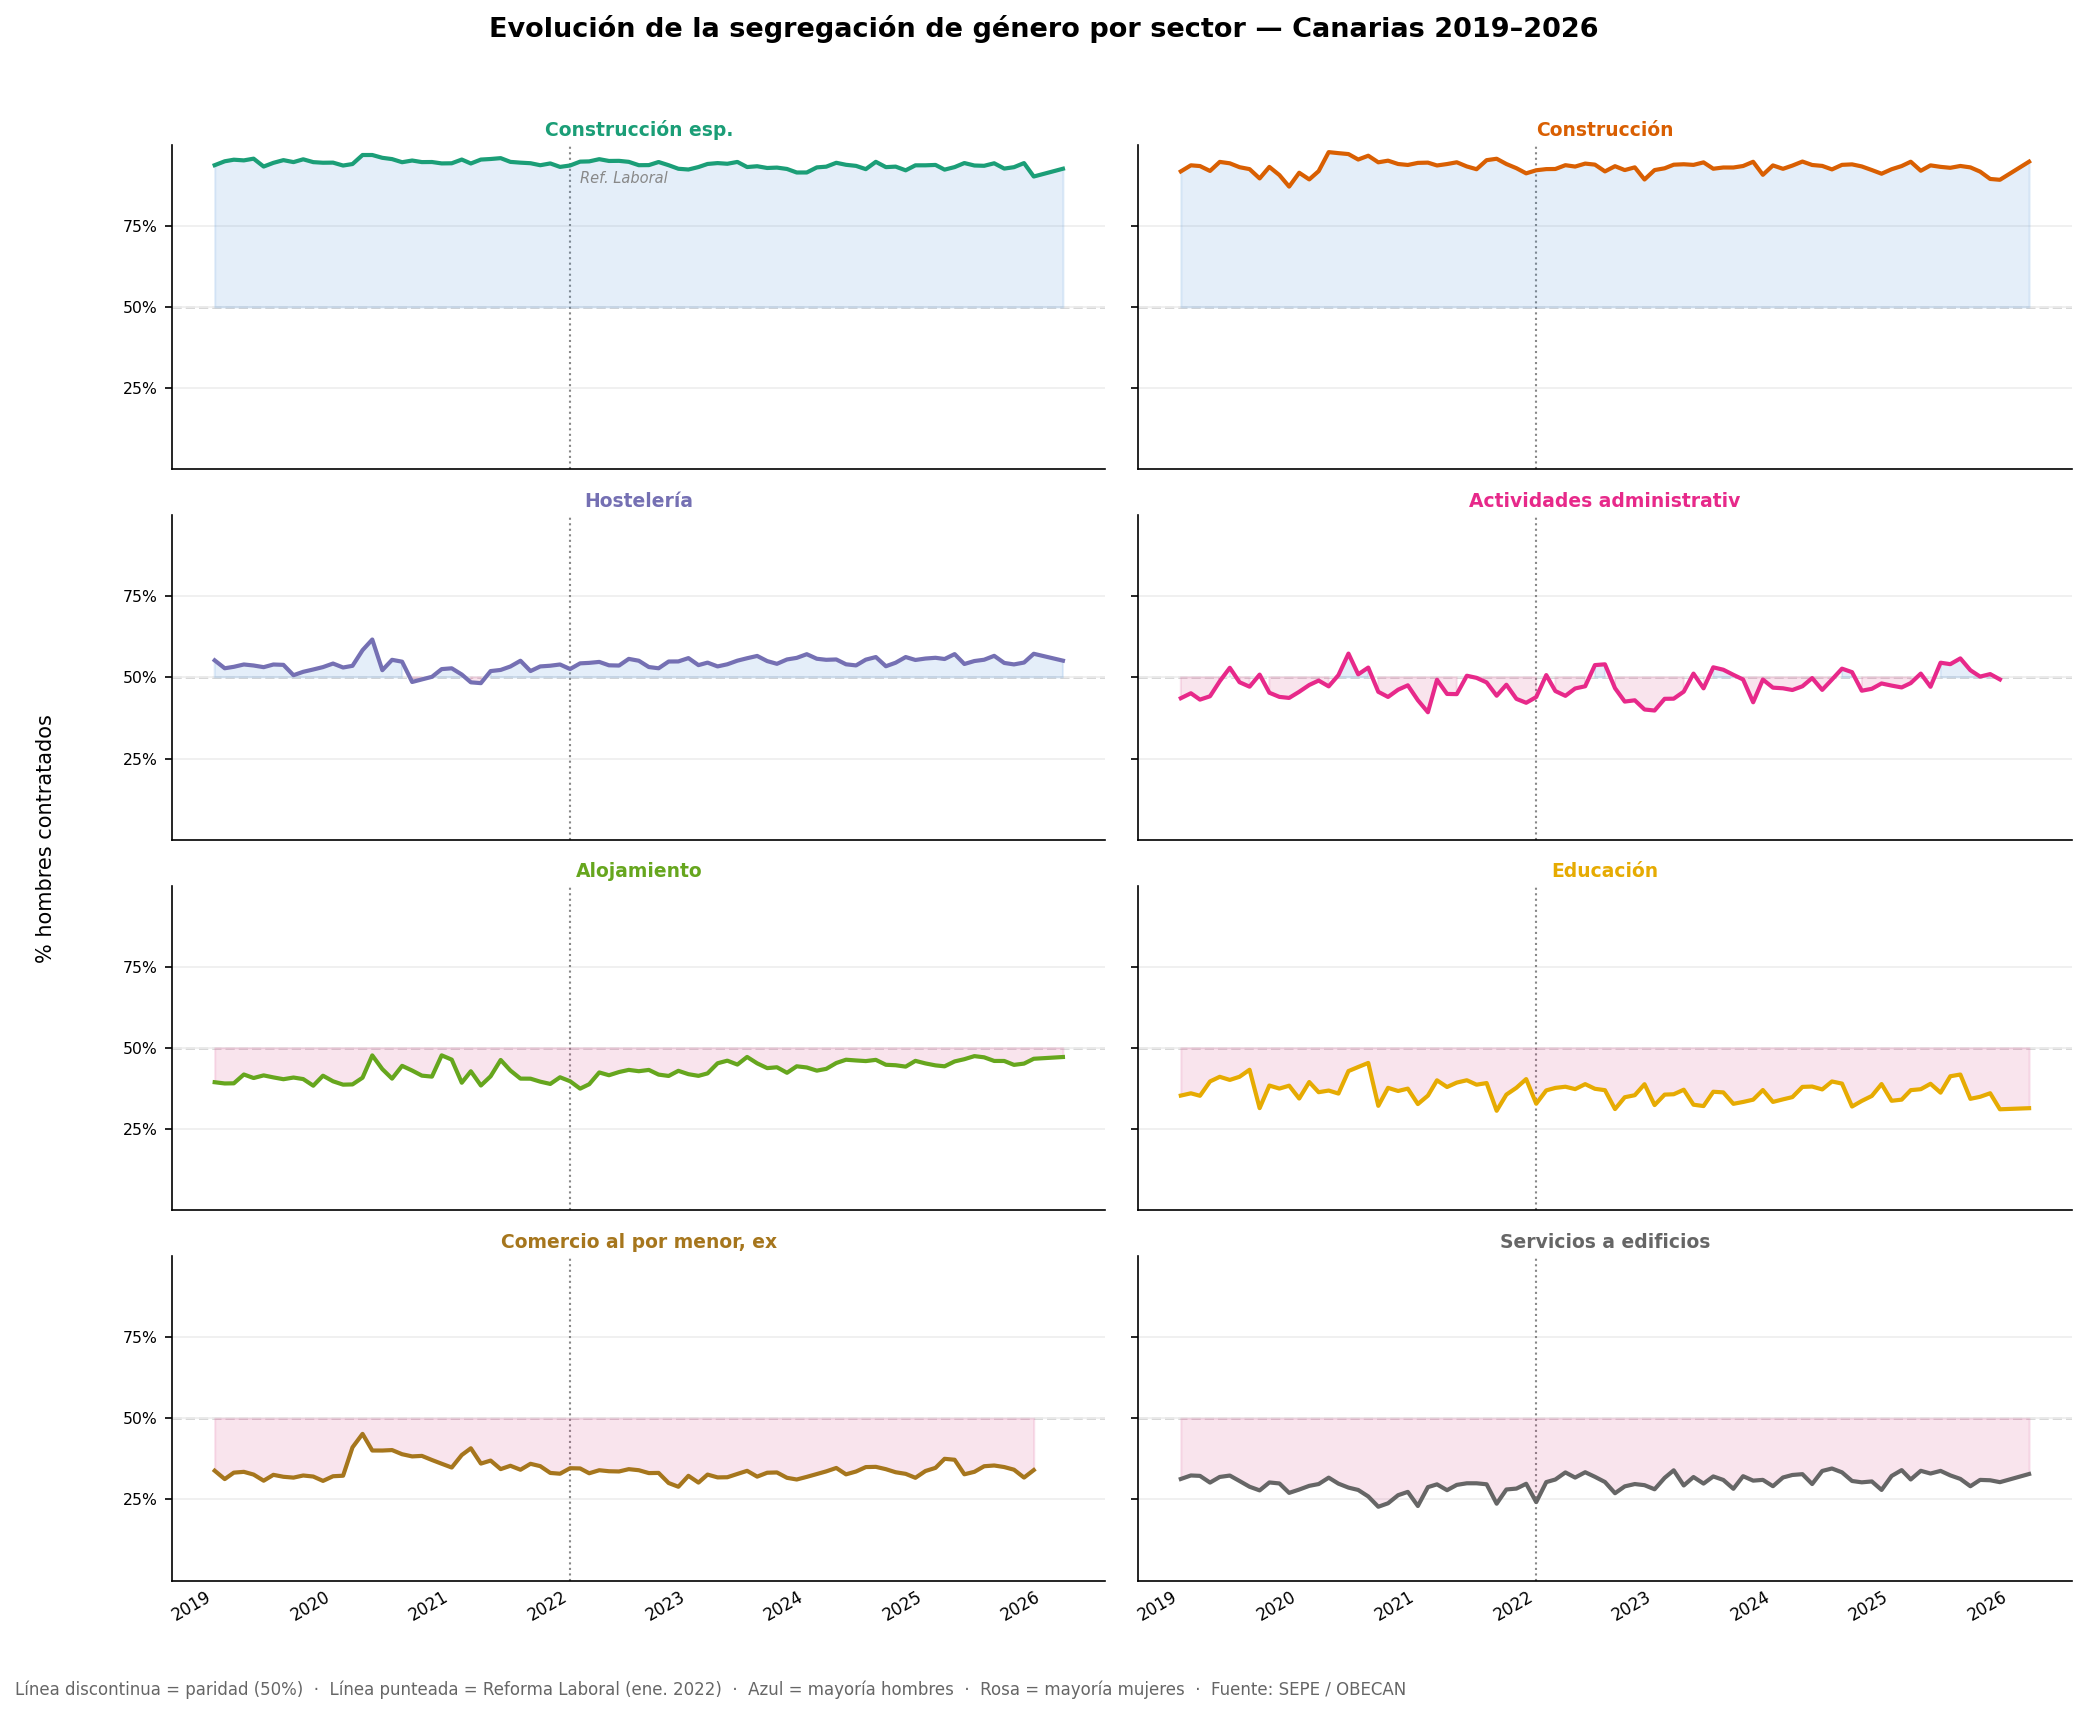
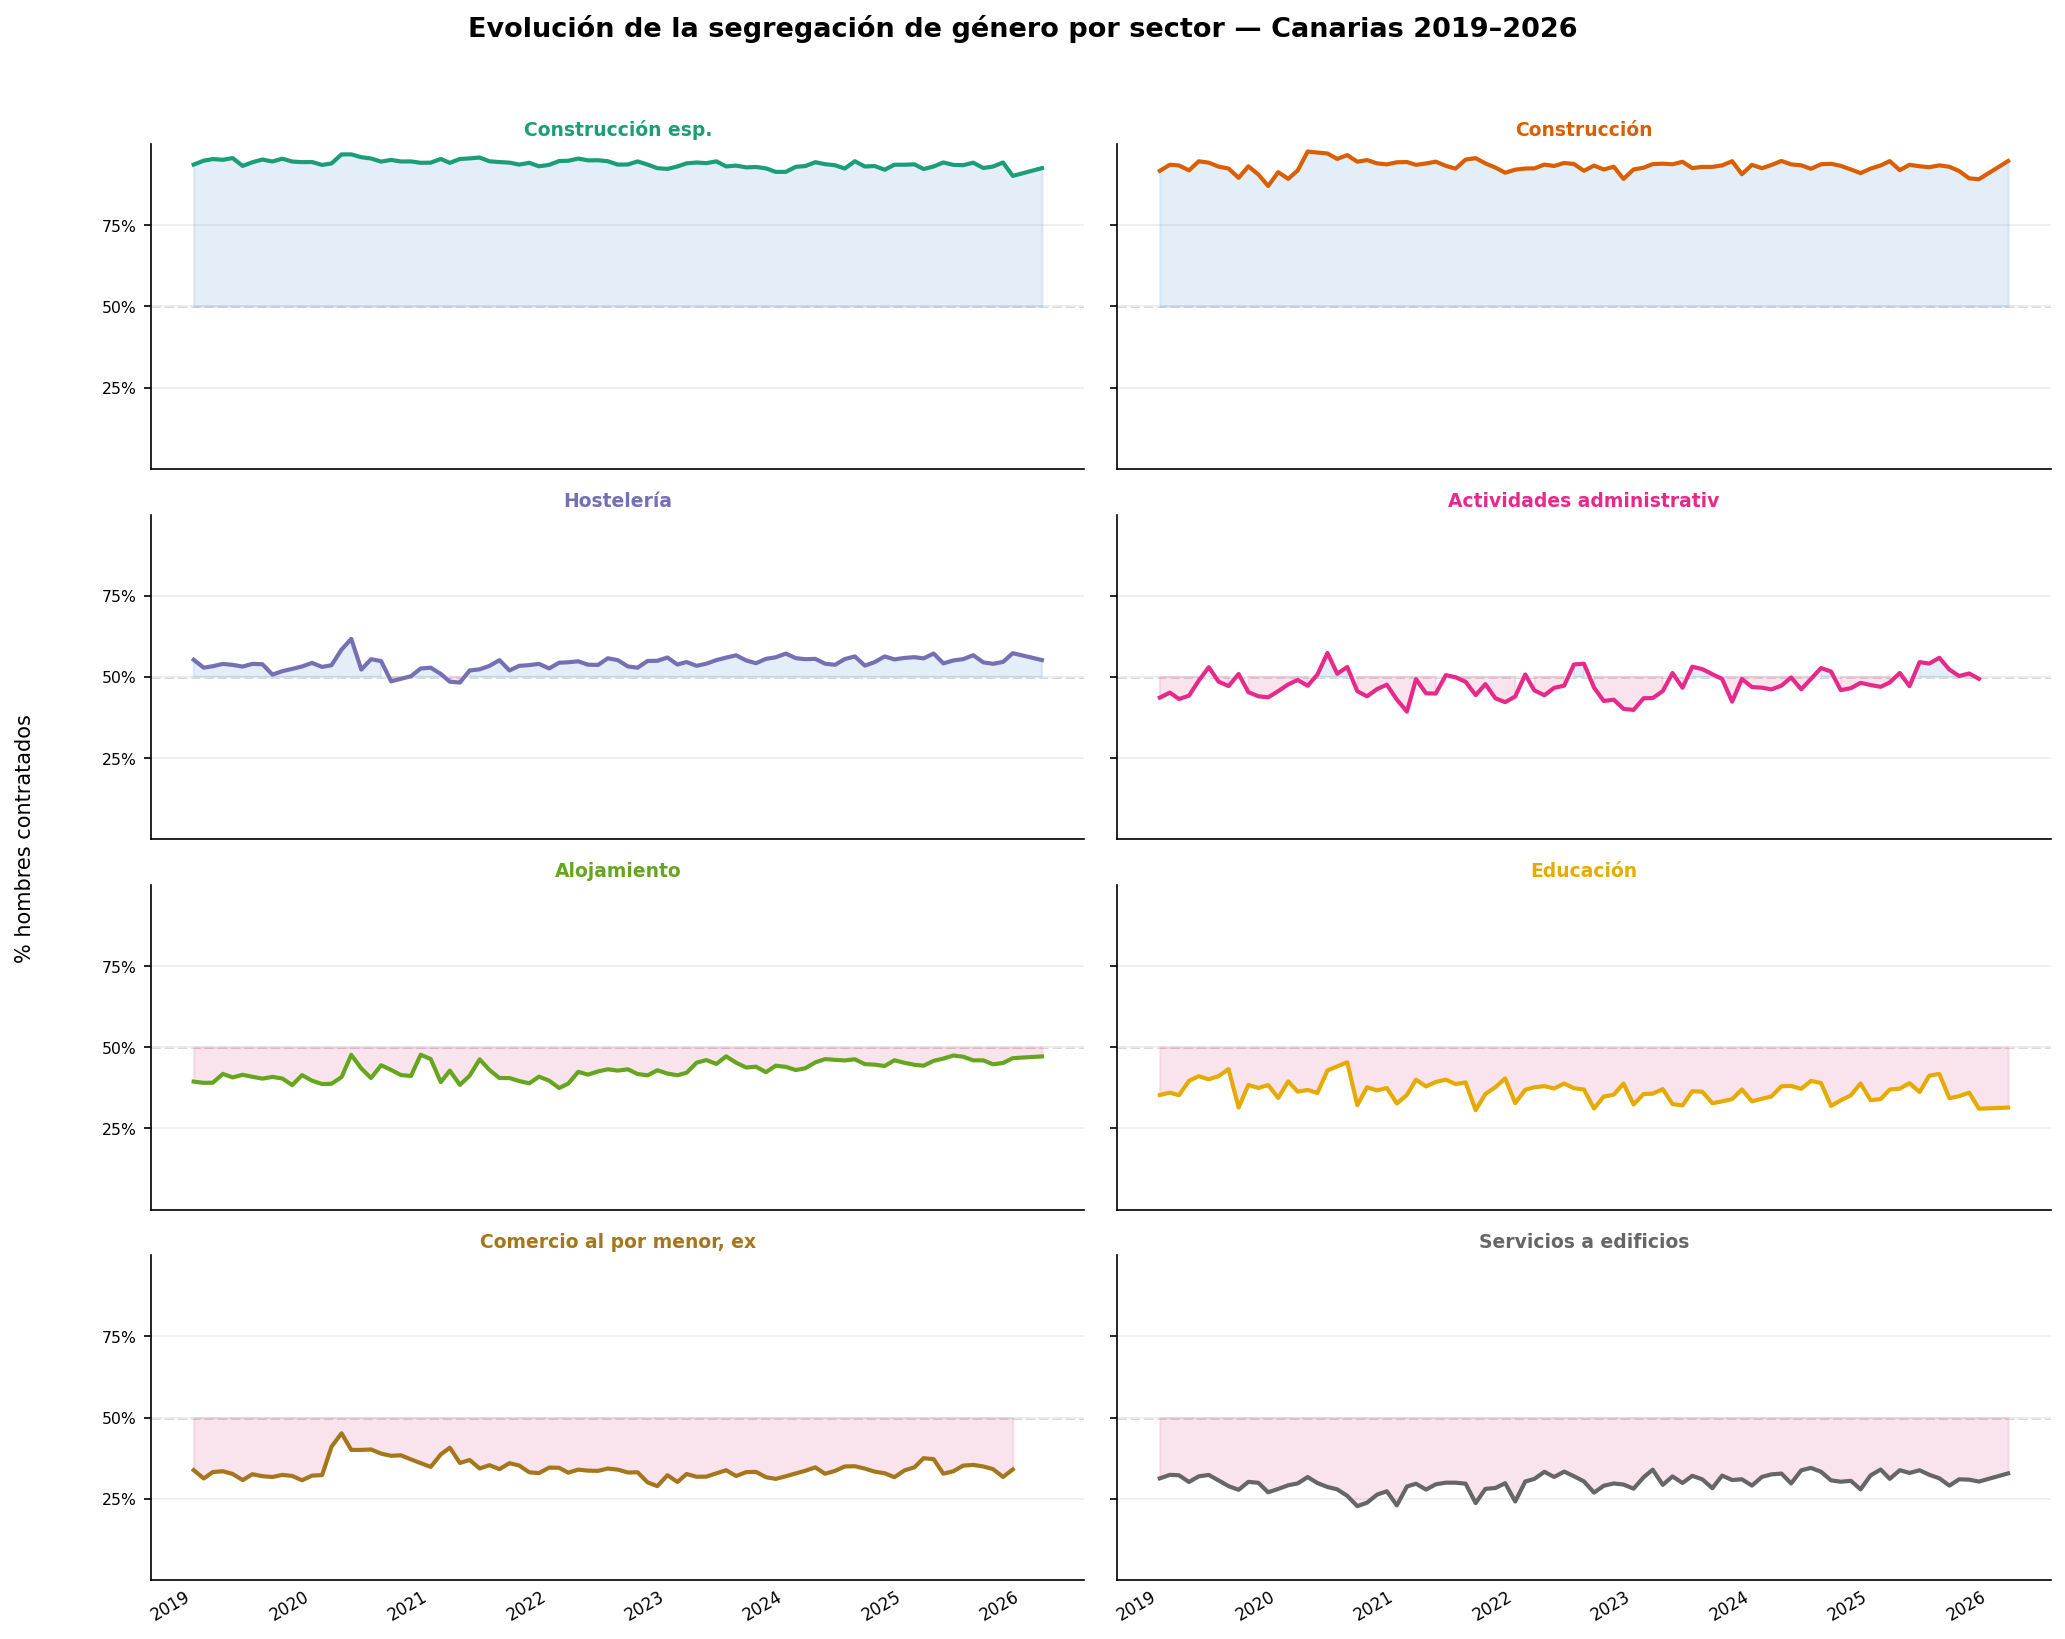
.

diff --git a/assets_proyecto5/plots_assets.py b/assets_proyecto5/plots_assets.py
@@ -1886,7 +1886,6 @@ def plot_segregacion_sectorial_temporal(context: AssetExecutionContext) -> None:
 
         ax.set_facecolor("white")
         ax.axhline(0.5, color="#cccccc", lw=1.2, ls="--", zorder=1)
-        ax.axvline(fecha_reforma, color="#888888", lw=1.0, ls=":", zorder=2)
 
         ax.plot(sub["fecha"], sub["ratio_hm"], color=col, lw=2.0, zorder=3)
         ax.fill_between(sub["fecha"], sub["ratio_hm"], 0.5,
@@ -1903,11 +1902,6 @@ def plot_segregacion_sectorial_temporal(context: AssetExecutionContext) -> None:
         ax.spines[["top", "right"]].set_visible(False)
         ax.tick_params(axis="x", length=0)
         ax.set_title(act, fontsize=9, fontweight="bold", color=col, pad=4)
-
-        if idx == 0 and sub["fecha"].min() < fecha_reforma < sub["fecha"].max():
-            ax.text(fecha_reforma + pd.Timedelta(days=30), 0.92,
-                    "Ref. Laboral", fontsize=7, color="#888888",
-                    style="italic", va="top")
 
     for idx in range(n_act, len(axes_flat)):
         axes_flat[idx].set_visible(False)
@@ -1927,13 +1921,6 @@ def plot_segregacion_sectorial_temporal(context: AssetExecutionContext) -> None:
         f"Evolución de la segregación de género por sector — "
         f"{AMBITO} {ANO_INI}\u2013{ANO_FIN}",
         fontsize=13, fontweight="bold", y=0.99)
-    fig.text(
-        0.01, -0.01,
-        "Línea discontinua = paridad (50%)  ·  "
-        "Línea punteada = Reforma Laboral (ene. 2022)  ·  "
-        "Azul = mayoría hombres  ·  Rosa = mayoría mujeres  ·  "
-        "Fuente: SEPE / OBECAN",
-        fontsize=8, color="#666666")
 
     plt.tight_layout(rect=[0.03, 0.02, 1, 0.97])
     out = os.path.join(get_plot_dir(), "segregacion_sectorial_temporal.png")
